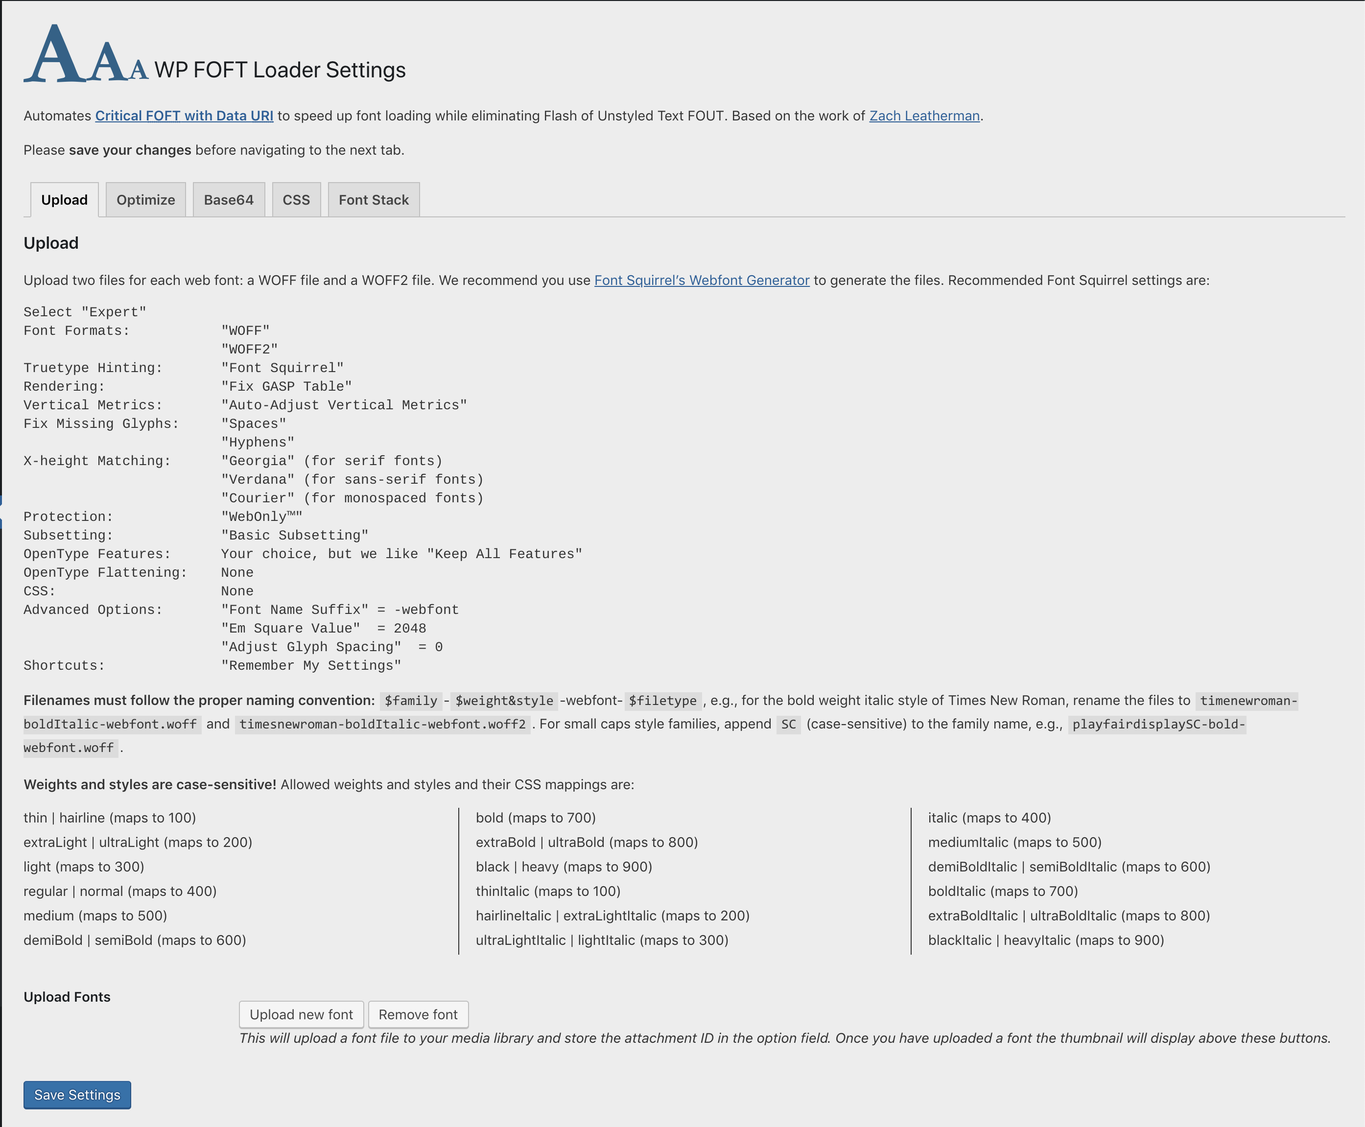
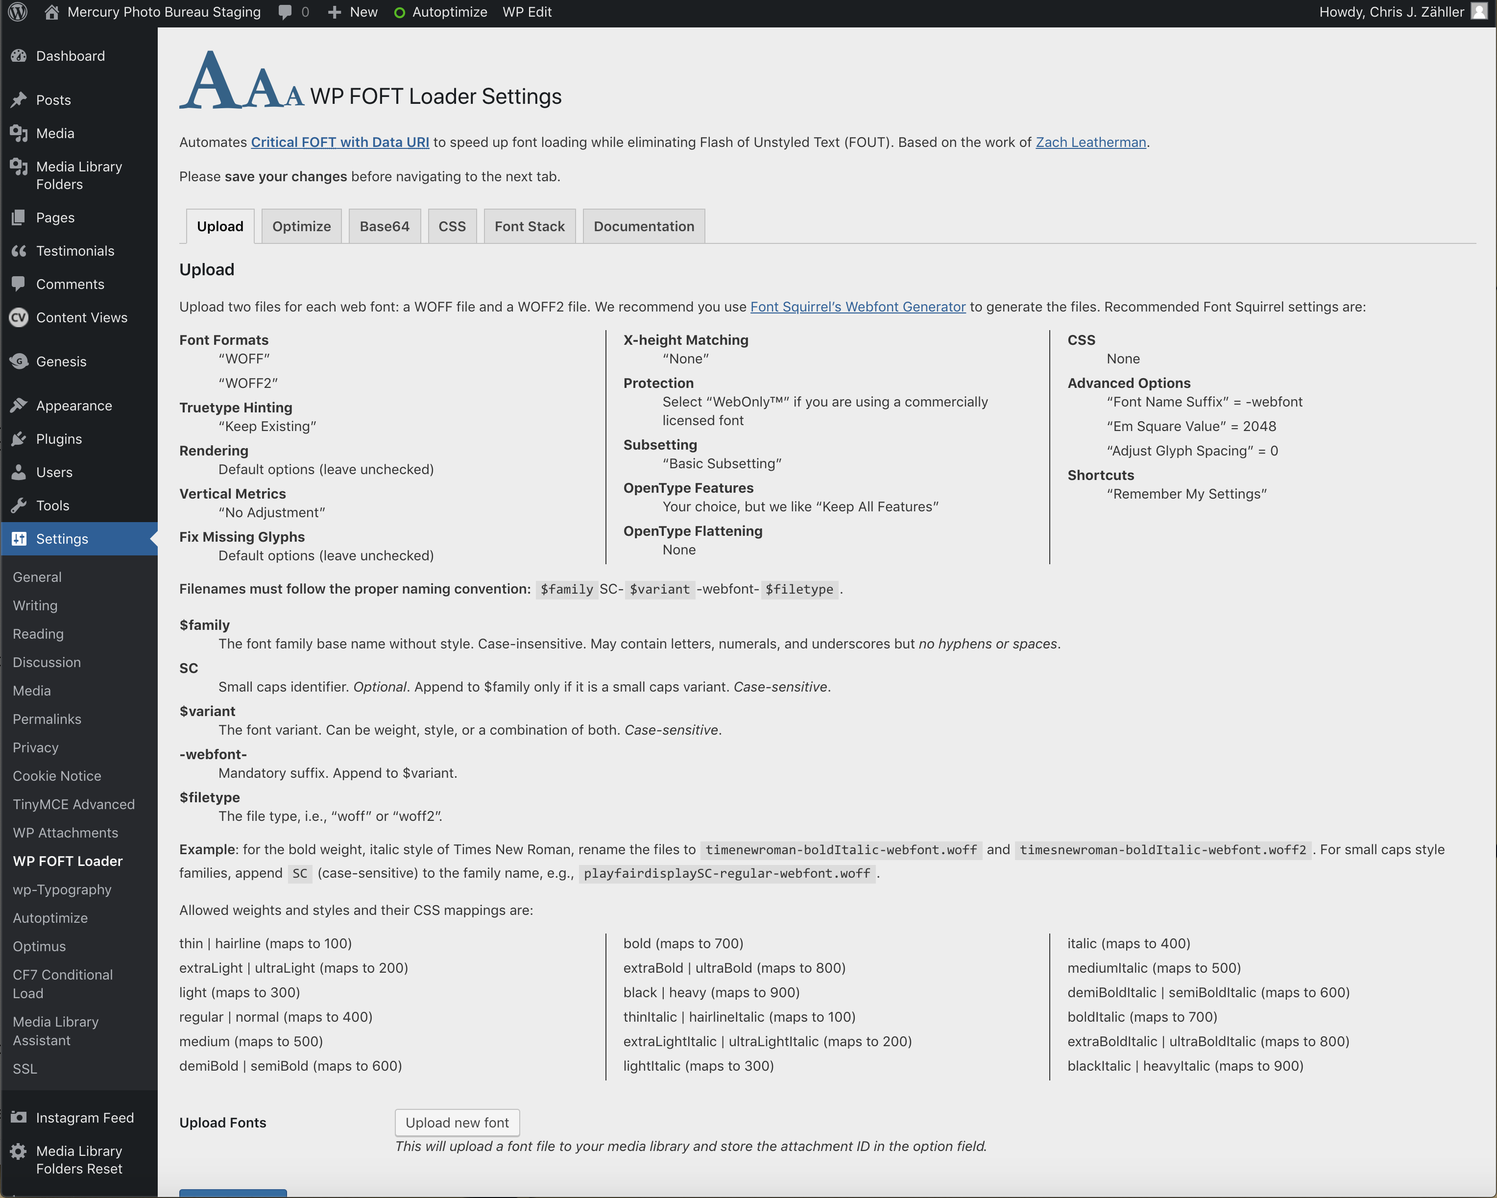
* Additional NULL value checks before outputting styles * Other code improvements * Numerous documentation improvements * Added first two video tutorials (more to come) | v.1.0.25

diff --git a/assets/css/admin.css b/assets/css/admin.css
@@ -48,3 +48,37 @@ span.nobreak {
   -webkit-column-break-inside: avoid;
   break-inside: avoid;
 }
+
+.video-responsive {
+  overflow: hidden;
+  padding-bottom: 56.25%;
+  margin-bottom: 0 1em 1em 1em;
+  position: relative;
+  height: 0;
+}
+
+.video-responsive iframe {
+  left: 0;
+  top: 0;
+  height: 100%;
+  width: 100%;
+  position: absolute;
+}
+
+.col-2 {
+  -webkit-columns: 2 15rem;
+          columns: 2 15rem;
+  -webkit-column-gap: 2rem;
+          column-gap: 2rem;
+  -webkit-column-rule: 1px solid;
+          column-rule: 1px solid
+}
+
+.col-3 {
+  -webkit-columns: 3 15rem;
+          columns: 3 15rem;
+  -webkit-column-gap: 2rem;
+          column-gap: 2rem;
+  -webkit-column-rule: 1px solid;
+          column-rule: 1px solid;
+}

diff --git a/assets/css/admin.scss b/assets/css/admin.scss
@@ -48,3 +48,31 @@ span.nobreak {
   -webkit-column-break-inside: avoid;
   break-inside: avoid;
 }
+
+.video-responsive {
+  overflow: hidden;
+  padding-bottom: 56.25%;
+  margin-bottom: 0 1em 1em 1em;
+  position: relative;
+  height: 0;
+}
+
+.video-responsive iframe {
+  left: 0;
+  top: 0;
+  height: 100%;
+  width: 100%;
+  position: absolute;
+}
+
+.col-2 {
+  columns: 2 15rem;
+  column-gap: 2rem;
+  column-rule: 1px solid
+}
+
+.col-3 {
+  columns: 3 15rem;
+  column-gap: 2rem;
+  column-rule: 1px solid;
+}

diff --git a/includes/class-wp-foft-loader-settings.php b/includes/class-wp-foft-loader-settings.php
@@ -124,8 +124,8 @@ class WP_FOFT_Loader_Settings {
 		$settings['upload'] = array(
 			'title'                 => __( 'Upload', 'wp-foft-loader' ),
 			'description'           => '<p>' . __( '
-Upload two files for each web font: a WOFF file and a WOFF2 file. We recommend you use', 'wp-foft-loader' ) . ' <a href="https://www.fontsquirrel.com/tools/webfont-generator" target="_blank" rel="external noreferrer noopener">Font Squirrel’s ' . __( 'Webfont Generator' , 'wp-foft-loader' ) . '</a>' . __( 'to generate the files. Recommended Font Squirrel settings are:', 'wp-foft-loader' ) . '</p>
-<dl style="columns: 3 15rem; column-gap: 2rem; column-rule: 1px solid;">
+Upload two files for each web font: a WOFF file and a WOFF2 file. We recommend you use', 'wp-foft-loader' ) . ' <a href="https://www.fontsquirrel.com/tools/webfont-generator" target="_blank" rel="external noreferrer noopener">Font Squirrel’s ' . __( 'Webfont Generator' , 'wp-foft-loader' ) . '</a> ' . __( 'to generate the files. Recommended Font Squirrel settings are:', 'wp-foft-loader' ) . '</p>
+<dl class="col-3">
   <dt>' . __( 'Font Formats', 'wp-foft-loader' ) . '</dt>
   <dd>&ldquo;<abbr>WOFF</abbr>&rdquo;</dd>
   <dd>&ldquo;<abbr>WOFF2</abbr>&rdquo;</dd>
@@ -159,7 +159,7 @@ Upload two files for each web font: a WOFF file and a WOFF2 file. We recommend y
 <p><strong>' . __( 'Filenames must follow the proper naming convention:', 'wp-foft-loader' ) . '</strong> <code>$family</code>SC-<code>$variant</code>-webfont-<code>$filetype</code>.</p>
 <dl>
 <dt>$family</dt>
-<dd>' . __( 'The font family base name without style. Case-insensitive.', 'wp-foft-loader' ) . '</dd>
+<dd>' . __( 'The font family base name without style. Case-insensitive. May contain letters, numerals, and underscores but', 'wp-foft-loader') . ' <em>' . __('no hyphens or spaces', 'wp-foft-loader'). '</em>.</dd>
 <dt>SC</dt>
 <dd>'. __( 'Small caps identifier', 'wp-foft-loader' ) . '. <em>' . __( 'Optional', 'wp-foft-loader' ) . '</em>. ' .__( 'Append to $family only if it is a small caps variant.', 'wp-foft-loader' ) . ' <em>' . __( 'Case-sensitive', 'wp-foft-loader' ) . '</em>.</dd>
 <dt>$variant</dt>
@@ -171,7 +171,7 @@ Upload two files for each web font: a WOFF file and a WOFF2 file. We recommend y
 </dl>
 <p><strong>' . __( 'Example', 'wp-foft-loader' ) . '</strong>: ' . __( 'for the bold weight, italic style of', 'wp-foft-loader' ) . ' Times New Roman, ' . __( 'rename the files to', 'wp-foft-loader' ) . ' <code>timenewroman-boldItalic-webfont.woff</code> ' . __( 'and', 'wp-foft-loader' ) . ' <code>timesnewroman-boldItalic-webfont.woff2</code>. ' . __( 'For small caps style families, append', 'wp-foft-loader' ) . ' <code>SC</code> (' . __( 'case-sensitive', 'wp-foft-loader' ) . ') ' . __( 'to the family name,', 'wp-foft-loader' ) . ' e.g., <code>playfairdisplaySC-regular-webfont.woff</code>.</p>
 <p>' . __( 'Allowed weights and styles and their CSS mappings are:', 'wp-foft-loader' ) . '</p>
-<ul style="columns: 3 15rem; column-gap: 2rem; column-rule: 1px solid;">
+<ul class="col-3">
   <li>thin | hairline (' . __( 'maps to', 'wp-foft-loader' ) . ' 100)</li>
   <li>extraLight | ultraLight (' . __( 'maps to', 'wp-foft-loader' ) . ' 200)</li>
   <li>light (' . __( 'maps to', 'wp-foft-loader' ) . ' 300)</li>
@@ -224,7 +224,7 @@ Upload two files for each web font: a WOFF file and a WOFF2 file. We recommend y
 					'label'         => __( 'Headings' , 'wp-foft-loader' ),
 					'description'   => __( 'Optimize the display font used for high-level headings', 'wp-foft-loader' ) . '(H1, H2, &amp; H3)',
 					'type'          => 'text',
-					'default'       => '',
+					'default'       => NULL,
 					'placeholder'   => 'e.g., playfairdisplay'
 				),
 				array(
@@ -232,7 +232,7 @@ Upload two files for each web font: a WOFF file and a WOFF2 file. We recommend y
 					'label'         => __( 'Body' , 'wp-foft-loader' ),
 					'description'   => __( 'Optimize body text. This can be a serif or sans-serif font.', 'wp-foft-loader' ),
 					'type'          => 'text',
-					'default'       => '',
+					'default'       => NULL,
 					'placeholder'   => 'e.g., timesnewroman'
 				),
 				array(
@@ -240,7 +240,7 @@ Upload two files for each web font: a WOFF file and a WOFF2 file. We recommend y
 					'label'         => __( 'Other elements' , 'wp-foft-loader' ),
 					'description'   => __( 'Optimize non-body elements', 'wp-foft-loader' ) . ', <abbr>e.g.</abbr>,' . __( 'navigation labels, button labels, <abbr>etc.</abbr> A sans-serif font works best for this.' , 'wp-foft-loader' ),
 					'type'          => 'text',
-					'default'       => '',
+					'default'       => NULL,
 					'placeholder'   => 'e.g., latosans'
 				),
 				array(
@@ -248,7 +248,7 @@ Upload two files for each web font: a WOFF file and a WOFF2 file. We recommend y
 					'label'         => __( 'Monospaced' , 'wp-foft-loader' ),
 					'description'   => __( 'Optimize monospaced fonts. Used for code examples, preformatted text, and tabular data.', 'wp-foft-loader' ),
 					'type'          => 'text',
-					'default'       => '',
+					'default'       => NULL,
 					'placeholder'   => 'e.g., couriernew'
 				)
 			)
@@ -259,7 +259,7 @@ Upload two files for each web font: a WOFF file and a WOFF2 file. We recommend y
 			'description'           => '
 <p>' . __( 'This setting inlines Base64 encoded font in the document head to improve font loading speeds.' , 'wp-foft-loader' ) . ' <em>' . __( 'This setting works with the Optimize settings in the previous tab.' , 'wp-foft-loader' ) . '</em>' . __( 'All of the fields are optional, but if you fill out any of them you should also fill out the corresponding Optimize settings field.' , 'wp-foft-loader' ) . '</p>
 <p>' . __( 'Fonts must be subsetted and encoded to Base64. To subset and encode your fonts, we recommend you use' , 'wp-foft-loader' ) . ' <a href="https://www.fontsquirrel.com/tools/webfont-generator" target="_blank" rel="external noreferrer noopener">Font Squirrel’s ' . __( 'Webfont Generator' , 'wp-foft-loader' ) . '</a>. ' . __( 'Recommended Font Squirrel settings are:' , 'wp-foft-loader' ) . '</p>
-<dl style="columns: 3 15rem; column-gap: 2rem; column-rule: 1px solid;">
+<dl class="col-3">
   <dt>' . __( 'Font Formats' , 'wp-foft-loader' ) . '</dt>
   <dd>' . __( 'None', 'wp-foft-loader' ) . '</dd>
   <dt>' . __( 'Truetype Hinting' , 'wp-foft-loader' ) . '</dt>
@@ -341,7 +341,7 @@ Upload two files for each web font: a WOFF file and a WOFF2 file. We recommend y
 		<li>' . __( 'All declarations must start with the', 'wp-foft-loader' ) . '  <code>fonts-stage-1</code> ' . __( 'class', 'wp-foft-loader' ) . '</li>
 	</ul>
 	<p>' . __('See the', 'wp-foft-loader') . ' <a href="?page=wp_foft_loader_settings&tab=documentation">' . __('Documentation screen', 'wp-foft-loader' ) . '</a> ' . __('to view the Stage 1 <abbr>CSS</abbr> that this plugin loads by default.', 'wp-foft-loader' ) . '</p>
-	<dl style="columns: 2 15rem; column-gap: 2rem; column-rule: 1px solid">
+	<dl class="col-2">
 	  <dt>' . __( 'Incorrect:', 'wp-foft-loader' ) . '</dt>
 		<dd><pre><code>.nav-primary { <mark>// ' . __( 'Missing prefix:', 'wp-foft-loader' ) .' .fonts-stage-1</mark>
   font-family: latoSubset, sans-serif;
@@ -382,7 +382,7 @@ Upload two files for each web font: a WOFF file and a WOFF2 file. We recommend y
 		<li>' . __( 'For best performance, please', 'wp-foft-loader' ) . ' <a href="//cssminifier.com" rel="external noreferrer noopener">' . __( 'minify your <abbr>CSS</abbr></a> before pasting it into the form.', 'wp-foft-loader' ) . '</li>
 	</ul>
 	<p>' . __('See the', 'wp-foft-loader') . ' <a href="?page=wp_foft_loader_settings&tab=documentation">' . __('Documentation screen', 'wp-foft-loader' ) . '</a> ' . __('to view the Stage 2 <abbr>CSS</abbr> that this plugin loads by default.', 'wp-foft-loader' ) . '</p>
-	<dl style="columns: 2 15rem; column-gap: 2rem; column-rule: 1px solid">
+	<dl class="col-2">
 		<dt>' . __( 'Incorrect:', 'wp-foft-loader' ) . '</dt>
 		<dd><pre><code>tbody { <mark>// ' . __( 'Missing class:', 'wp-foft-loader' ) .' .fonts-stage-2</mark>
   font-family: lato, Corbel, "Lucida Grande", sans-serif;
@@ -448,7 +448,7 @@ Upload two files for each web font: a WOFF file and a WOFF2 file. We recommend y
 					'label'         => __( 'Stage 1 CSS' , 'wp-foft-loader' ),
 					'description'   => __( 'Place <abbr>CSS</abbr> font declarations here.', 'wp-foft-loader' ),
 					'type'          => 'textarea',
-					'default'       => '',
+					'default'       => NULL,
 					'placeholder'   => __( 'Example:', 'wp-foft-loader' ) . 
 '.fonts-stage-1 body {
   font-family: merriweatherSubset, serif;
@@ -459,7 +459,7 @@ Upload two files for each web font: a WOFF file and a WOFF2 file. We recommend y
 					'label'         => __( 'Stage 2 CSS' , 'wp-foft-loader' ),
 					'description'   => __( 'Place <abbr>CSS</abbr> font declarations here.', 'wp-foft-loader' ),
 					'type'          => 'textarea_large',
-					'default'       => '',
+					'default'       => NULL,
 					'placeholder'   => __( 'Example:', 'wp-foft-loader' ) . 
 '.fonts-stage-2 body {
   font-family: merriweather, "Century Schoolbook L", Georgia, serif;
@@ -486,7 +486,7 @@ Upload two files for each web font: a WOFF file and a WOFF2 file. We recommend y
 				array(
 					'id'            => 'fstack-body',
 					'label'         => __( 'Body' , 'wp-foft-loader' ),
-					'description'   => __( 'Font stack for body text. This can be a serif or sans-serif font.', 'wp-foft-loader' ),
+					'descrption'   => __( 'Font stack for body text. This can be a serif or sans-serif font.', 'wp-foft-loader' ),
 					'type'          => 'textarea',
 					'default'       => '"Palatino Linotype",Palatino,Palladio,"URW Palladio L","Book Antiqua",Baskerville,"Bookman Old Style","Bitstream Charter","Nimbus Roman No9 L",Garamond,"Apple Garamond","ITC Garamond Narrow","New Century Schoolbook","Century Schoolbook","Century Schoolbook L",Georgia,serif',
 					'placeholder'   => ''
@@ -517,8 +517,8 @@ Upload two files for each web font: a WOFF file and a WOFF2 file. We recommend y
 			'title'	                => __( 'Documentation', 'wp-foft-loader' ),
 			'description'           =>'<section>
 	<h3>' . __('Fonts Stage 1', 'wp-foft-loader') . '</h3>
-	<p>' . __('This plugins always loads the following Stage 1 styles. The Stage 1 fonts are inlined, subsetted, base64 fonts. <$bodySubset>, <$altSubset>, <$headingSubset>, and <$monoSubset> correspond to the Body, Other Elements, Headings, and Monospaced font-families configured on the', 'wp-foft-loader') . ' <a href="?page=wp_foft_loader_settings&tab=optimize">' . __('Optimize', 'wp-foft-loader') . '</a> ' . __('and', 'wp-foft-loader') . '  <a href="?page=wp_foft_loader_settings&tab=base64">' . __('Base64', 'wp-foft-loader') . '</a> options screens.</p>
-<pre style="columns: 3 15rem; column-gap: 2rem; column-rule: 1px solid;"><code>body {
+	<p>' . __('This plugin always loads the following Stage 1 styles. The Stage 1 fonts are inlined, subsetted, base64 fonts. <$bodySubset>, <$altSubset>, <$headingSubset>, and <$monoSubset> correspond to the Body, Other Elements, Headings, and Monospaced font-families configured on the', 'wp-foft-loader') . ' <a href="?page=wp_foft_loader_settings&tab=optimize">' . __('Optimize', 'wp-foft-loader') . '</a> ' . __('and', 'wp-foft-loader') . '  <a href="?page=wp_foft_loader_settings&tab=base64">' . __('Base64', 'wp-foft-loader') . '</a> options screens.</p>
+<pre class="col-3"><code>body {
   font-family: serif;
   font-weight: 400;
   font-style: normal
@@ -552,8 +552,8 @@ Upload two files for each web font: a WOFF file and a WOFF2 file. We recommend y
 </section>
 <section>
 	<h3>' . __('Fonts Stage 2', 'wp-foft-loader') . '</h3>
-	<p>' . __('This plugins also loads the following Stage 2 styles. You can disable these styles on the <a href="?page=wp_foft_loader_settings&tab=css"><abbr>' . __('CSS', 'wp-foft-loader') . '.</abbr></a> options screen. <$body>, <$alt>, <$heading>, and <$mono> correspond to the Body, Other Elements, Headings, and Monospaced font-families configured on the', 'wp-foft-loader') . ' <a href="?page=wp_foft_loader_settings&tab=optimize">' . __('Optimize screen', 'wp-foft-loader') . '</a>.</p>
-<pre style="columns: 3 15rem; column-gap: 2rem; column-rule: 1px solid;"><code>.fonts-stage-2 body,
+	<p>' . __('This plugin also loads the following Stage 2 styles. You can disable these styles on the', 'wp-foft-loader') . ' <a href="?page=wp_foft_loader_settings&tab=css"><abbr>CSS</abbr> ' . __('options screen', 'wp-foft-loader') . '</a>. <$body>, <$alt>, <$heading>, ' . __('and', 'wp-foft-loader') . ' <$mono> ' . __('correspond to the Body, Other Elements, Headings, and Monospaced font-families configured on the', 'wp-foft-loader') . ' <a href="?page=wp_foft_loader_settings&tab=optimize">' . __('Optimize screen', 'wp-foft-loader') . '</a>. '. __('You can change the default font fallbacks on the', 'wp-foftloader') . ' <a href="?page=wp_foft_loader_settings&tab=fstack">' . __('Font Stack settings screen', 'wp-foft-loader') . '</a>.</p>
+<pre class="col-3"><code>.fonts-stage-2 body,
 .fonts-stage-2 h4,
 .fonts-stage-2 h5,
 .fonts-stage-2 h6 {
@@ -648,6 +648,15 @@ Upload two files for each web font: a WOFF file and a WOFF2 file. We recommend y
   font-family: $alt, -apple-system, BlinkMacSystemFont, "Segoe UI", Roboto, Oxygen-Sans, Ubuntu, Cantarell, "Helvetica Neue", sans-serif;
   font-weight: 400
 }</code></pre>
+</section>
+<section>
+	<h3>' . __('Video Tutorials', 'wp-foft-loader') . '</h3>
+    <div class="col-2">
+      <div class="video-responsive"><iframe width="560" height="315" src="https://www.youtube.com/embed/0C0lDJ3T12o?rel=0" frameborder="0" allow="accelerometer; autoplay; encrypted-media; gyroscope; picture-in-picture" allowfullscreen></iframe>
+      </div>
+      <div class="video-responsive"><iframe width="560" height="315" src="https://www.youtube.com/embed/-StFYcOSDCU?rel=0" frameborder="0" allow="accelerometer; autoplay; encrypted-media; gyroscope; picture-in-picture" allowfullscreen></iframe>
+      </div>
+    </div>
 </section>',
 			'fields'                => array(
 			)

diff --git a/includes/class-wp-foft-loader-head.php b/includes/class-wp-foft-loader-head.php
@@ -150,10 +150,6 @@
 				*/
 			}
 
-			$default_css = get_option ( 'wpfl_default_css' );
-
-			echo 'body{font-family:serif;font-weight:400;font-style:normal}.fonts-stage-1 body{font-family:' . wp_kses($body, $arr) . 'Subset,serif}.fonts-stage-1 button,.fonts-stage-1 input,.fonts-stage-1 nav,.fonts-stage-1 optgroup,.fonts-stage-1 select,.fonts-stage-1 textarea{font-family:' . wp_kses($alt, $arr) . 'Subset,sans-serif}.fonts-stage-1 h1,.fonts-stage-1 h2,.fonts-stage-1 h3,.fonts-stage-1 h4,.fonts-stage-1 h5,.fonts-stage-1 h6{font-family:' . wp_kses($heading, $arr) . 'Subset,serif}.fonts-stage-1 code{font-family:' . wp_kses($mono, $arr) . 'Subset,monospace}';
-
 			$fs_heading = get_option ( 'wpfl_fstack-heading' );
 			$fs_heading = ',' . $fs_heading;
 			$fs_body = get_option ( 'wpfl_fstack-body' );
@@ -163,9 +159,48 @@
 			$fs_mono = get_option ( 'wpfl_fstack-mono' );
 			$fs_mono = ',' . $fs_mono;
 
+			echo 'body{font-family:serif;font-weight:400;font-style:normal}';
+						
+			$default_css = get_option ( 'wpfl_default_css' );
+
+			if( !is_null($body) && !is_null($fs_body) ) {
+				echo '.fonts-stage-1 body{font-family:' . wp_kses($body, $arr) . 'Subset,serif}';
+			}
+
+			if( !is_null($alt) && !is_null($fs_alt) ) {
+				echo '.fonts-stage-1 button,.fonts-stage-1 input,.fonts-stage-1 nav,.fonts-stage-1 optgroup,.fonts-stage-1 select,.fonts-stage-1 textarea{font-family:' . wp_kses($alt, $arr) . 'Subset,sans-serif}';
+			}
+
+			if( !is_null($heading) && !is_null($fs_heading) ) {
+				echo '.fonts-stage-1 h1,.fonts-stage-1 h2,.fonts-stage-1 h3,.fonts-stage-1 h4,.fonts-stage-1 h5,.fonts-stage-1 h6{font-family:' . wp_kses($heading, $arr) . 'Subset,serif}';
+			}
+
+			if ( !is_null($mono) && !is_null($fs_mono) ) {
+				echo '.fonts-stage-1 code{font-family:' . wp_kses($mono, $arr) . 'Subset,monospace}';
+			}
+
 			if (isset($default_css)) {
 				if ($default_css == 'on') {
-					echo '.fonts-stage-2 body,.fonts-stage-2 h4,.fonts-stage-2 h5,.fonts-stage-2 h6{font-family:' . wp_kses($body, $arr) . wp_kses($fs_body, $arr) . '}.fonts-stage-2 h1,.fonts-stage-2 h2,.fonts-stage-2 h3{font-family:' . wp_kses($heading, $arr) . wp_kses($fs_heading, $arr) . ';font-weight:400}.fonts-stage-2 code strong,.fonts-stage-2 h4,.fonts-stage-2 h5,.fonts-stage-2 h6,.fonts-stage-2 strong,.fonts-stage-2 strong code{font-weight:700}.fonts-stage-2 h1 strong,.fonts-stage-2 h2 strong,.fonts-stage-2 h3 strong,.fonts-stage-2 strong h1,.fonts-stage-2 strong h2,.fonts-stage-2 strong h3{font-weight:900}.fonts-stage-2 em strong h1,.fonts-stage-2 h1 em strong,.fonts-stage-2 h1 strong em,.fonts-stage-2 strong em h1{font-weight:900;font-style:italic}.fonts-stage-2 abbr{font-weight:700;font-variant:small-caps;padding:0 .13333rem 0 0;letter-spacing:.06667rem;text-transform:lowercase}.fonts-stage-2 code{font-family:' . wp_kses($mono, $arr) . wp_kses($fs_mono, $arr) . '}.fonts-stage-2 cite>em,.fonts-stage-2 cite>q,.fonts-stage-2 em>cite,.fonts-stage-2 em>em,.fonts-stage-2 em>q,.fonts-stage-2 figcaption>cite,.fonts-stage-2 figcaption>em,.fonts-stage-2 q>cite,.fonts-stage-2 q>em{font-style:normal}.fonts-stage-2 code em,.fonts-stage-2 em,.fonts-stage-2 em code,.fonts-stage-2 figcaption,.fonts-stage-2 h2,.fonts-stage-2 h3{font-style:italic}.fonts-stage-2 code em strong,.fonts-stage-2 code strong em,.fonts-stage-2 em code strong,.fonts-stage-2 em strong,.fonts-stage-2 em strong code,.fonts-stage-2 strong code em,.fonts-stage-2 strong em,.fonts-stage-2 strong em code{font-weight:700;font-style:italic},.fonts-stage-2 button,.fonts-stage-2 input,.fonts-stage-2 nav,.fonts-stage-2 optgroup,.fonts-stage-2 select,.fonts-stage-2 textarea{font-family:' . wp_kses($alt, $arr) . wp_kses($fs_alt, $arr) . ';font-weight:400}';
+					if( !is_null($body) ) {
+						echo '.fonts-stage-2 body,.fonts-stage-2 h4,.fonts-stage-2 h5,.fonts-stage-2 h6{font-family:' . wp_kses($body, $arr) . wp_kses($fs_body, $arr) . '}';
+					}
+
+					if( !is_null($heading) ) {
+						echo '.fonts-stage-2 h1,.fonts-stage-2 h2,.fonts-stage-2 h3{font-family:' . wp_kses($heading, $arr) . wp_kses($fs_heading, $arr) . ';font-weight:400}';
+					}
+
+					
+					echo '.fonts-stage-2 code strong,.fonts-stage-2 h4,.fonts-stage-2 h5,.fonts-stage-2 h6,.fonts-stage-2 strong,.fonts-stage-2 strong code{font-weight:700}.fonts-stage-2 h1 strong,.fonts-stage-2 h2 strong,.fonts-stage-2 h3 strong,.fonts-stage-2 strong h1,.fonts-stage-2 strong h2,.fonts-stage-2 strong h3{font-weight:900}.fonts-stage-2 em strong h1,.fonts-stage-2 h1 em strong,.fonts-stage-2 h1 strong em,.fonts-stage-2 strong em h1{font-weight:900;font-style:italic}.fonts-stage-2 abbr{font-weight:700;font-variant:small-caps;padding:0 .13333rem 0 0;letter-spacing:.06667rem;text-transform:lowercase}';
+
+					if( !is_null($mono) ) {
+						echo '.fonts-stage-2 code{font-family:' . wp_kses($mono, $arr) . wp_kses($fs_mono, $arr) . '}';
+					}
+
+					echo '.fonts-stage-2 cite>em,.fonts-stage-2 cite>q,.fonts-stage-2 em>cite,.fonts-stage-2 em>em,.fonts-stage-2 em>q,.fonts-stage-2 figcaption>cite,.fonts-stage-2 figcaption>em,.fonts-stage-2 q>cite,.fonts-stage-2 q>em{font-style:normal}.fonts-stage-2 code em,.fonts-stage-2 em,.fonts-stage-2 em code,.fonts-stage-2 figcaption,.fonts-stage-2 h2,.fonts-stage-2 h3{font-style:italic}.fonts-stage-2 code em strong,.fonts-stage-2 code strong em,.fonts-stage-2 em code strong,.fonts-stage-2 em strong,.fonts-stage-2 em strong code,.fonts-stage-2 strong code em,.fonts-stage-2 strong em,.fonts-stage-2 strong em code{font-weight:700;font-style:italic}';
+					
+					if ( !is_null($alt) ) {
+						echo '.fonts-stage-2 button,.fonts-stage-2 input,.fonts-stage-2 nav,.fonts-stage-2 optgroup,.fonts-stage-2 select,.fonts-stage-2 textarea{font-family:' . wp_kses($alt, $arr) . wp_kses($fs_alt, $arr) . ';font-weight:400}';
+					}
 				}
 			};
 

diff --git a/readme.md b/readme.md
@@ -5,7 +5,7 @@ Tags: wordpress, plugin, fonts, performance
 Requires at least: 3.9  
 Tested up to: 5.2.2  
 Requires PHP: 7.0  
-Stable tag: 1.0.24  
+Stable tag: 1.0.25  
 License: GPLv3 or later  
 License URI: https://www.gnu.org/licenses/gpl-3.0.html  
 
@@ -40,7 +40,7 @@ For detailed recommended settings, see the plugin Upload options screen.
 **Filenames must follow the proper naming convention:** `$family`SC-`$variant`-webfont-`$filetype`.
 
 **$family**
-: The font family base name without style. Case-insensitive.
+: The font family base name without style. Case-insensitive. May contain letters, numerals, and underscores but no hyphens or spaces.
 
 **SC**
 : Small caps identifier. *Optional*. Append to $family only if it is a small caps variant. *Case-sensitive*.
@@ -232,6 +232,8 @@ See the Documentation screen to view the CSS this plugin loads by default and to
 3. Base64 screen: inlines Base64 data URI for subsetted stage 1 fonts
 4. CSS screen: all font-related CSS goes here so it can be inlined.
 5. Font Stacks screen: sets the default font stacks
+6. Documentation (1): Information about the CSS that the plugin loads by default
+7. Documentation (2): Video tutorials
 
 == Frequently Asked Questions ==
 
@@ -263,6 +265,13 @@ I'm looking for collaborators to improve the code. If you are an experienced Wor
 Feel free to send a donation to my [Paypal account](https://paypal.me/messengerwebdesign?locale.x=en_US). Or buy me a beer if you're in town.
 
 == Changelog ==
+
+= 1.0.25 =
+* 2019-06-21
+* Additional NULL value checks before outputting styles
+* Other code improvements
+* Numerous documentation improvements
+* Added first two video tutorials (more to come)
 
 = 1.0.24 =
 * 2019-06-19
@@ -382,13 +391,12 @@ Feel free to send a donation to my [Paypal account](https://paypal.me/messengerw
 
 == Upgrade Notice ==
 
-= 1.0.24 =
-* 2019-06-19
-* Bugfixes: fixed typos in output CSS
-* Separated Stage 1 and Stage 2 CSS in CSS screen
-* Added Documentation screen
-* Major edits to body copy
-* Removed internationalization where it’s not needed
+= 1.0.25 =
+* 2019-06-21
+* Additional NULL value checks before outputting styles
+* Other code improvements
+* Numerous documentation improvements
+* Added first two video tutorials (more to come)
 
 [//]: # (REMEMBER to update the Stable tag and copy all changes to readme.txt!)
 
